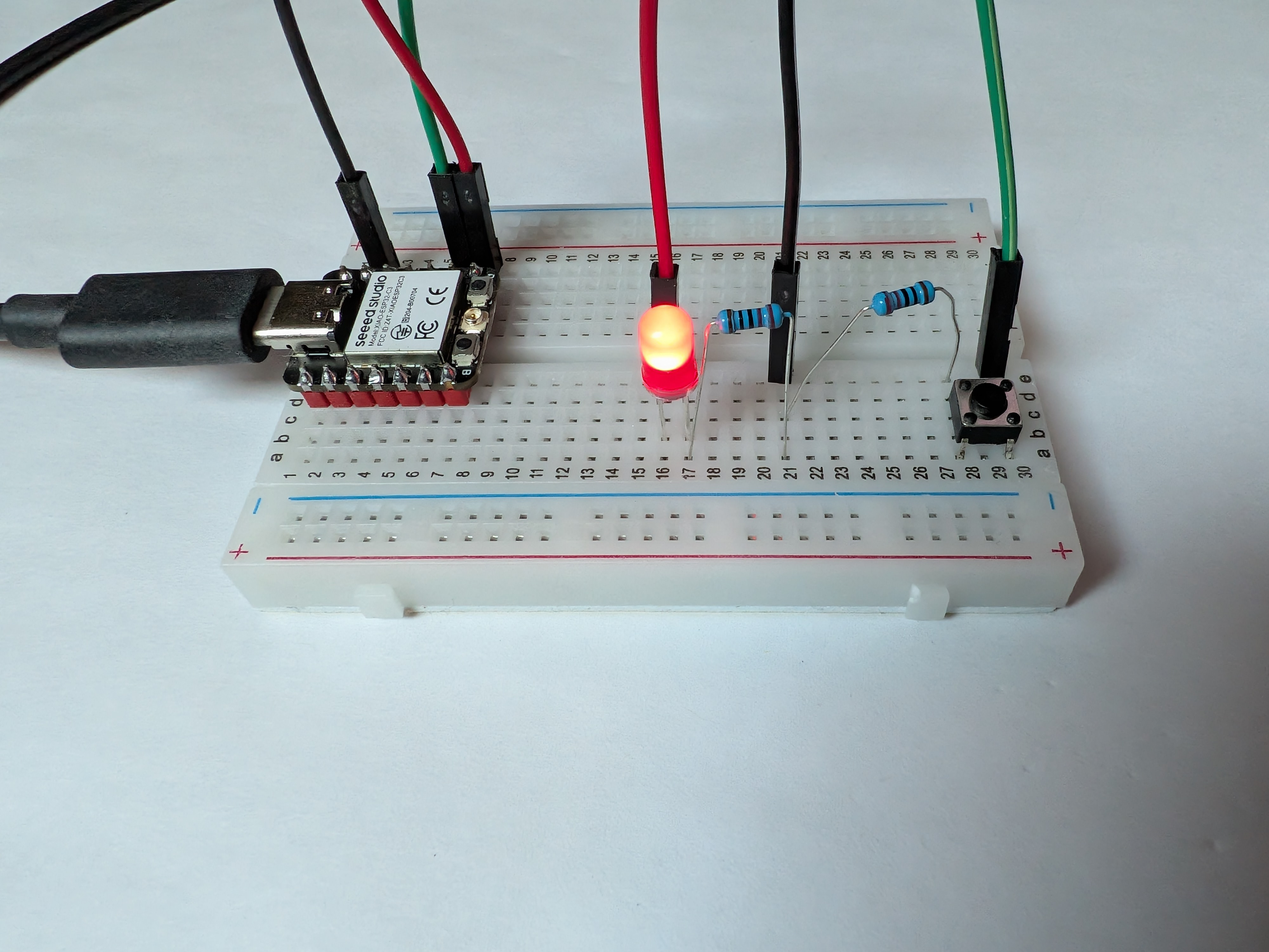
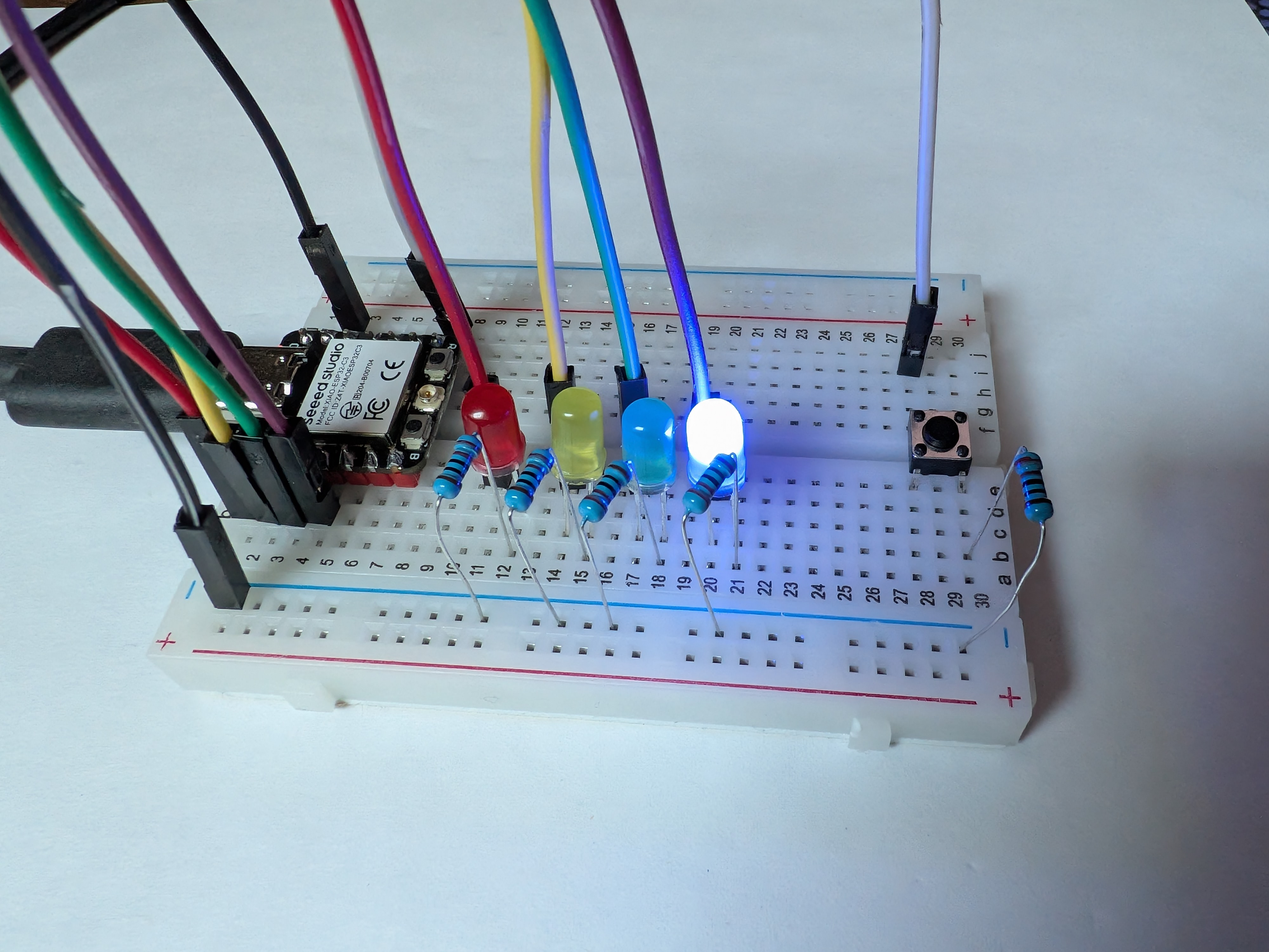
move python primer up and change project 2

diff --git a/micropython_workshop/project_guide/project_2/project_2.tex b/micropython_workshop/project_guide/project_2/project_2.tex
@@ -1,15 +1,16 @@
-\chapter{Project 2: Button}
+\chapter{Project 2: LED Party}
 
 \section{Overview}
-This project adds on to the lessons from the last project. In addition to our LED, we will now also have
-a button in our circuit. Over the course of this project, you will:
+This project adds on to the lessons from the last project. In addition to our single LED, we will add a
+button and several more LEDs. This will let us write some code that can control them in interesting ways
+and patterns. Over the course of this project, you will:
 \begin{itemize}
-    \item Create a simple circuit using your breadboard
-    \item Write a program that runs in a loop and listens for user input (the button)
-    \item Respond to user input by changing the brightness of the LED
+    \item Expand the circuits from previous projects with more components
+    \item Write a program that can orchestrate multiple LEDs with simple animations
+    \item Respond to user input by changing the animation that is running
 \end{itemize}
 At the end of this project, your microcontroller should run a MicroPython program which changes the
-brightness of the LED when the button is pushed. Let's get started!
+animations that the LEDs show when the button is pushed. Let's get started!
 \begin{figure}[H]
 \centering
     \includegraphics[width=.6\linewidth]{project_2/success!.jpg}
@@ -26,15 +27,15 @@ microcontroller attached to the breadboard.
 
 \subsection{Creating the circuit}
 Using jumper cables, you will be assembling a circuit between your microcontroller, your breadboard,
-an LED, a pushbutton, and 220\si{\ohm} resistors for the LED and button.
+some LEDs, a pushbutton, and 220\si{\ohm} resistors for the LEDs and button.
 
 \subsubsection{Attach the microcontroller to the breadboard}
 Carefully insert the pins at the bottom of your microcontroller into the breadboard, making sure that the microcontroller is oriented such that:
 \begin{itemize}
-    \item The pin labeled \textbf{5V} is inserted in hole at \textbf{Column H, Row 1} of the breadboard (or \textbf{H1}, for short)
-    \item The pin labeled \textbf{GPIO2} is inserted in hole \textbf{D1} of the breadboard
-    \item The pin labeled \textbf{GPIO20} is inserted in hole \textbf{H7} of the breadboard
-    \item the pin labeled \textbf{GPIO21} is inserted in hole \textbf{D7} of the breadboard
+    \item The pin labeled \textbf{3V3} is inserted in hole at \textbf{Column C, Row 1} of the breadboard (or \textbf{C1}, for short)
+    \item The pin labeled \textbf{Vin} is inserted in hole \textbf{J1} of the breadboard
+    \item The pin labeled \textbf{D0} is inserted in hole \textbf{C15} of the breadboard
+    \item the pin labeled \textbf{A0} is inserted in hole \textbf{J15} of the breadboard
 \end{itemize}
 You may need to apply more pressure than expected to seat the microcontroller properly in the breadboard. When its over, it should look like this:
 
@@ -46,15 +47,21 @@ You may need to apply more pressure than expected to seat the microcontroller pr
 
 \subsubsection{Connect the LED, Button, and Resistors}
 \begin{itemize}
-    \item Place an LED of your choice (the example image below uses RED) into the breadboard. The longer leg
-    should be placed in \textbf{B16} and the shorter leg should be placed in \textbf{B17}.
-    \item Place one leg of a resistor (doesn't matter which one) in \textbf{A17} and the other in
-    \textbf{A21}.
-    \item Place the button so that one connected set of pins (refer to \ref{button_basics} for an
-    example) is in \textbf{C28} and \textbf{A28} and the other set is in \textbf{C30} and \textbf{A30}.
-    \item Place a resistor between \textbf{E28} and \textbf{C21}. This will provide the low signal that
-    the button can switch.
-    \item Finally place a resistor between \textbf{E30} and the top negative rail (the blue one).
+    \item Place a red LED into the breadboard with the longer leg in \textbf{C11} and the shorter leg
+    in \textbf{C12}. Then place one leg of a resistor in \textbf{A12} and the other in the bottom
+    negative rail (the blue one).
+    \item Place a red LED into the breadboard with the longer leg in \textbf{C14} and the shorter leg
+    in \textbf{C15}. Then place one leg of a resistor in \textbf{A15} and the other in the bottom
+    negative rail.
+    \item Place a red LED into the breadboard with the longer leg in \textbf{C17} and the shorter leg
+    in \textbf{C18}. Then place one leg of a resistor in \textbf{A18} and the other in the bottom
+    negative rail.
+    \item Place a red LED into the breadboard with the longer leg in \textbf{C20} and the shorter leg
+    in \textbf{C21}. Then place one leg of a resistor in \textbf{A21} and the other in the bottom
+    negative rail.
+    \item Place the button so that one connected set of pins (refer to \ref{button_basics} for an example) is in \textbf{E28}
+    and \textbf{F28} and the other set is in \textbf{E30} and \textbf{F30}.
+    \item Finally place a resistor between \textbf{B30} and the bottom negative rail.
 \end{itemize}
 
 You should be left with something that looks like this:
@@ -66,12 +73,19 @@ You should be left with something that looks like this:
 
 \subsubsection{Connect the necessary jumper wires}
 \begin{itemize}
-    \item Place one end of a red jumper wire into hole \textbf{J7} of the breadboard and the other end into
-    \textbf{E16}. This will provide \textbf{3.3} volts of power to the LED when the program turns it on.
+    \item Place one end of a red jumper wire into hole \textbf{B1} of the breadboard and the other end into
+    \textbf{E11}. This will provide \textbf{3.3} volts of power to the red LED when the program turns it on.
+    \item Place one end of a yellow jumper wire into hole \textbf{B2} of the breadboard and the other end into
+    \textbf{E14}. This will provide \textbf{3.3} volts of power to the yellow LED when the program turns it on.
+    \item Place one end of a green jumper wire into hole \textbf{B3} of the breadboard and the other end into
+    \textbf{E17}. This will provide \textbf{3.3} volts of power to the green LED when the program turns it on.
+    \item Place one end of a purple jumper wire into hole \textbf{B4} of the breadboard and the other end into
+    \textbf{E20}. This will provide \textbf{3.3} volts of power to the blue LED when the program turns it on.
     \item Using a black jumper wire, place one end of the wire into hole \textbf{J2} of the breadboard and the other
-    end into \textbf{E21}. This will provide a ground path for the LED through the resistor to complete the circuit.
-    \item Place a green jumper wire into hole \textbf{J6} and the other end into \textbf{E30}. This
-    will provide the signal to the microcontroller that the button has been pressed.
+    end into the bottom negative rail (the blue one). This will provide a ground path for all of the components
+    in the circuit.
+    \item Place a white jumper wire into hole \textbf{J7} and the other end into \textbf{J28}. This will
+    provide the signal to the microcontroller when the button is pushed.
 \end{itemize}
 
 You should be left with something that looks like this:
@@ -86,12 +100,12 @@ You should be left with something that looks like this:
 Once all of the wiring is correct, connect the USB cable to the microcontroller and load the IDE to
 access it. Refer back to Chapter \ref{ide} for instructions.
 
-Click on the file named "project\_2\_button.py". This will load the code in the editor for this section.
+Click on the file named "project\_3\_led\_party.py". This will load the code in the editor for this section.
 Read through the comments and the code to get a sense for how it works. Once you are ready, you can
 click the blue play button in the upper left of the window to start the script.
 
-While the script is running, the LED will toggle between off and 3 different brightness levels. It will
-change whenever you press the button.
+While the script is running, the LEDs will animate with one of 5 pre-programmed animations. Pressing
+the button will cycle to the next animation.
 
 \section{Review}
 In this project, we learned how we can add interactivity to a circuit by using momentary pushbuttons.
@@ -102,6 +116,7 @@ whenever they are pressed.
 If you want to do some experimentation, try these:
 
 \begin{itemize}
-    \item Add more brightness levels for the LED to change between
-    \item Update the code so that it listens for a secret series of button presses before it will turn the LED on
+    \item Add different animation functions that you come up with and add them to the cycle
+    \item Add a second button and have it control the brightness of the LEDs at the same time that
+    the first button controls the pattern (hint: you'll need to always set them in PWM mode)
 \end{itemize}

diff --git a/micropython_workshop/project_guide/introduction/introduction.tex b/micropython_workshop/project_guide/introduction/introduction.tex
@@ -53,7 +53,7 @@ pin numbers in the code vs. the placement of your wires.
 \subsection{Project Guide Updates}
 
 In case you are reading a out of date version of this guide, you can find the latest at
-\url{https://netapp-ptc.github.io/YWIT-2024/project_guide.pdf}.
+\url{https://netapp-ptc.github.io/YWIT-2025/project_guide.pdf}.
 
 You can also find the source code for all of the workshops and other useful information in the GitHub
-repository at \url{https://github.com/NetApp-PTC/YWIT-2024}.
+repository at \url{https://github.com/NetApp-PTC/YWIT-2025}.

diff --git a/micropython_workshop/project_guide/project_guide.tex b/micropython_workshop/project_guide/project_guide.tex
@@ -91,6 +91,7 @@
 
 \input{introduction/introduction.tex}
 \input{electronics_preamble/electronics_preamble.tex}
+\input{python_primer/python_primer.tex}
 \input{micropython_ide/micropython_ide.tex}
 
 \input{project_1/project_1.tex}
@@ -100,8 +101,5 @@
 \input{project_5/project_5.tex}
 \input{project_6/project_6.tex}
 % \input{project_7/project_7.tex}
-
-\appendix
-\input{python_appendix/python_appendix.tex}
 
 \end{document}
